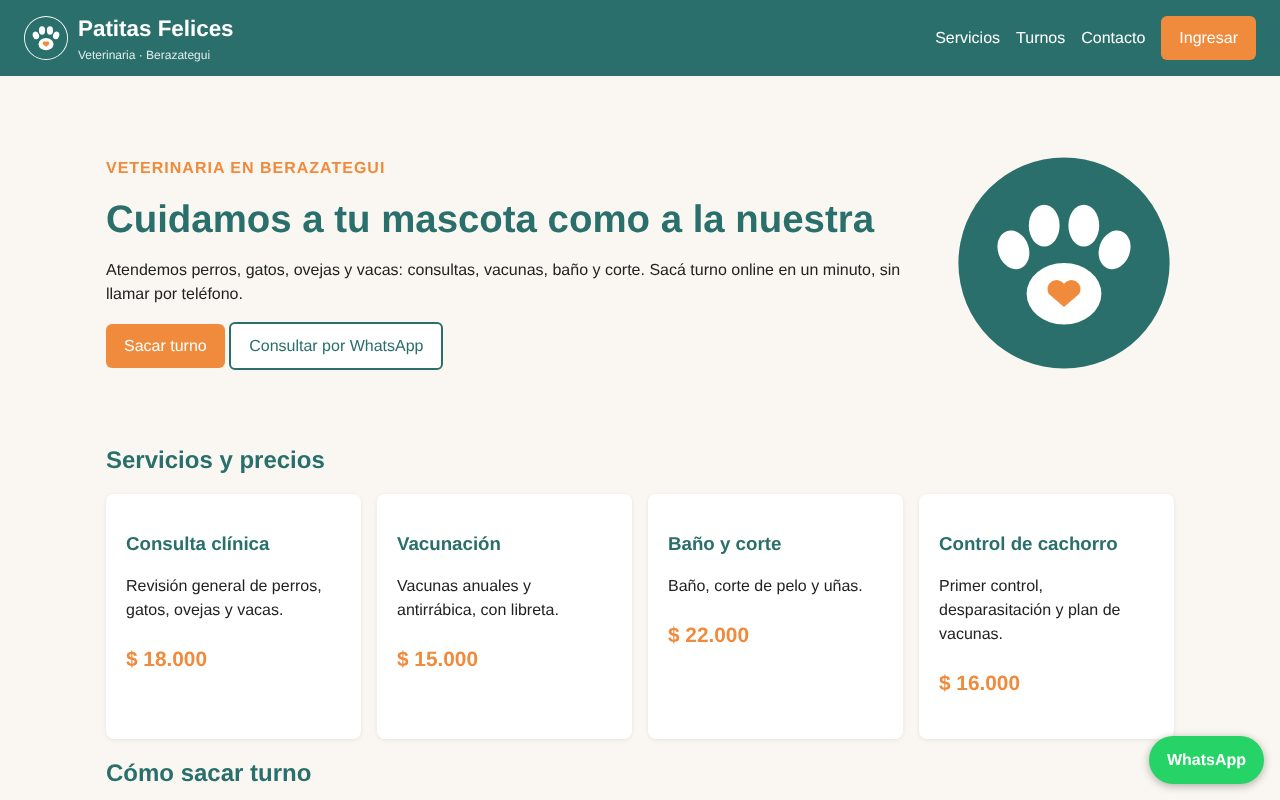
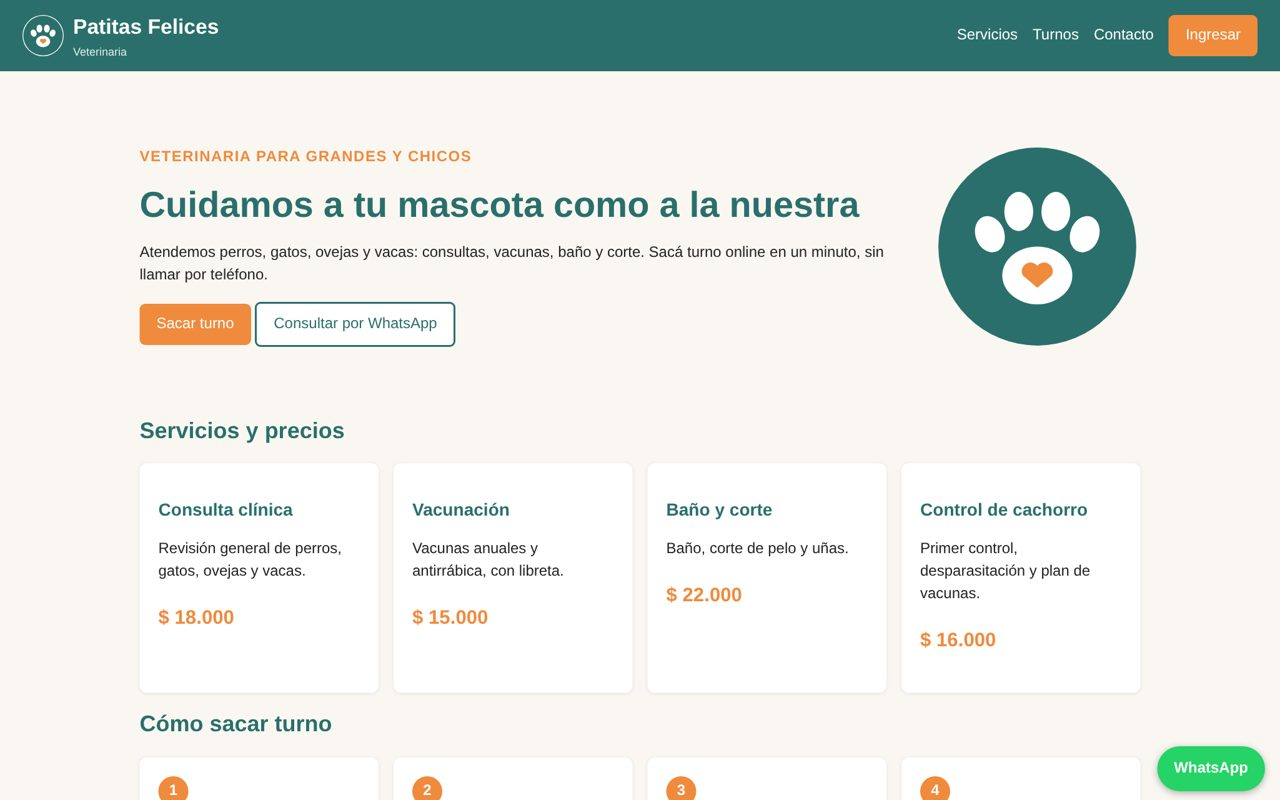
Textos sin la ciudad en los dos sitios; capturas de Patitas actualizadas en la web de Berasoft

diff --git a/04_Web_Consultora/nosotros.php b/04_Web_Consultora/nosotros.php
@@ -7,15 +7,15 @@ require 'inc/cabecera.php';
 <section class="portada">
   <div>
     <h1>Somos Berasoft</h1>
-    <p>Una <strong>Sociedad de Responsabilidad Limitada</strong> de Berazategui que desarrolla sitios web para comercios y profesionales de la zona sur.</p>
+    <p>Una <strong>Sociedad de Responsabilidad Limitada</strong> que desarrolla sitios web para comercios y profesionales.</p>
     <p>Elegimos ser S.R.L. porque somos una empresa chica: los socios responden solo con lo que aportaron y los trámites son más simples que en una S.A.</p>
   </div>
   <img src="img/logo.svg" alt="Logo de Berasoft" class="escudo" style="border:0;box-shadow:none;background:#fff;padding:24px">
 </section>
 
 <div class="grilla">
-  <article class="tarjeta"><h2>Misión</h2><p>Que cualquier negocio del barrio tenga una web útil, simple y a un precio justo.</p></article>
-  <article class="tarjeta"><h2>Visión</h2><p>Ser la empresa de desarrollo web de referencia en Berazategui y la zona sur.</p></article>
+  <article class="tarjeta"><h2>Misión</h2><p>Que cualquier negocio tenga una web útil, simple y a un precio justo.</p></article>
+  <article class="tarjeta"><h2>Visión</h2><p>Ser la empresa de desarrollo web de referencia para comercios y pymes.</p></article>
   <article class="tarjeta"><h2>Valores</h2><p>Claridad, compromiso con los plazos y atención cercana.</p></article>
 </div>
 
@@ -31,7 +31,7 @@ require 'inc/cabecera.php';
 <section class="destacado">
   <div>
     <h2>Dónde estamos</h2>
-    <p>Berazategui, Provincia de Buenos Aires.</p>
+    <p>Provincia de Buenos Aires, Argentina.</p>
     <p>Atendemos de lunes a viernes de 9 a 18 h. También vamos a tu negocio.</p>
   </div>
 </section>

diff --git a/05_Web_Proyecto/index.php b/05_Web_Proyecto/index.php
@@ -8,7 +8,7 @@ require 'inc/cabecera.php';
 ?>
 <section class="portada">
   <div>
-    <p class="etiqueta">Veterinaria en Berazategui</p>
+    <p class="etiqueta">Veterinaria para grandes y chicos</p>
     <h1>Cuidamos a tu mascota como a la nuestra</h1>
     <p>Atendemos perros, gatos, ovejas y vacas: consultas, vacunas, baño y corte. Sacá turno online en un minuto, sin llamar por teléfono.</p>
     <p>
@@ -44,6 +44,6 @@ require 'inc/cabecera.php';
 
 <section class="caso">
   <h2>Dónde estamos</h2>
-  <p>Av. Mitre 1234, Berazategui · Lunes a viernes de 9 a 18 h · Sábados de 9 a 13 h</p>
+  <p>Av. Mitre 1234 · Lunes a viernes de 9 a 18 h · Sábados de 9 a 13 h</p>
 </section>
 <?php require 'inc/pie.php'; ?>

diff --git a/04_Web_Consultora/index.php b/04_Web_Consultora/index.php
@@ -6,9 +6,9 @@ require 'inc/cabecera.php';
 ?>
 <section class="portada">
   <div>
-    <p class="etiqueta">Desarrollo web en Berazategui</p>
+    <p class="etiqueta">Desarrollo web para comercios</p>
     <h1>Hacemos la web de <span>tu negocio</span></h1>
-    <p>Sitios, turnos online y tiendas para comercios del barrio. Simples de usar, rápidos en el celular y con atención por WhatsApp.</p>
+    <p>Sitios, turnos online y tiendas para comercios y profesionales. Simples de usar, rápidos en el celular y con atención por WhatsApp.</p>
     <a class="boton" href="contacto.php">Pedir presupuesto</a>
     <a class="boton claro" href="trabajos.php">Ver trabajos</a>
   </div>

diff --git a/04_Web_Consultora/inc/cabecera.php b/04_Web_Consultora/inc/cabecera.php
@@ -9,7 +9,7 @@ $menu = ['index.php' => 'Inicio', 'servicios.php' => 'Servicios', 'trabajos.php'
   <meta charset="UTF-8">
   <meta name="viewport" content="width=device-width, initial-scale=1">
   <title><?= h($titulo) ?> · Berasoft</title>
-  <meta name="description" content="Berasoft S.R.L.: sitios web, turnos online y tiendas para comercios de Berazategui.">
+  <meta name="description" content="Berasoft S.R.L.: sitios web, turnos online y tiendas para comercios y profesionales.">
   <link rel="stylesheet" href="css/estilos.css">
   <link rel="icon" href="img/icono.svg">
 </head>

diff --git a/05_Web_Proyecto/inc/pie.php b/05_Web_Proyecto/inc/pie.php
@@ -1,6 +1,6 @@
 </main>
 <footer class="pie">
-  <p>Veterinaria Patitas Felices · Berazategui, Buenos Aires · Lunes a viernes de 9 a 18 h, sábados de 9 a 13 h</p>
+  <p>Veterinaria Patitas Felices · Lunes a viernes de 9 a 18 h, sábados de 9 a 13 h</p>
   <p><small>Sitio desarrollado por Berasoft S.R.L. · Proyecto final 7°2 · E.E.S.T. N°4 Berazategui · Juan Cruz Ceresani</small></p>
 </footer>
 <!-- Botón fijo de atención al cliente -->

diff --git a/04_Web_Consultora/trabajos.php b/04_Web_Consultora/trabajos.php
@@ -10,7 +10,7 @@ require 'inc/cabecera.php';
   <img src="img/patitas_turnos.jpg" alt="Pantalla de turnos de Patitas Felices">
   <div>
     <h2>Veterinaria Patitas Felices</h2>
-    <p><small>Berazategui · 2026</small></p>
+    <p><small>Veterinaria · 2026</small></p>
     <h3>El problema</h3>
     <p>Los turnos se daban por teléfono, se superponían horarios y la recepción no sabía qué animal venía.</p>
     <h3>Lo que hicimos</h3>

diff --git a/05_Web_Proyecto/inc/cabecera.php b/05_Web_Proyecto/inc/cabecera.php
@@ -15,7 +15,7 @@ $yo = usuario_actual();
 <header class="barra">
   <a class="marca" href="<?= $raiz ?>index.php">
     <img src="<?= $raiz ?>img/logo.svg" alt="">
-    <span>Patitas Felices <small>Veterinaria · Berazategui</small></span>
+    <span>Patitas Felices <small>Veterinaria</small></span>
   </a>
   <nav>
     <a href="<?= $raiz ?>index.php#servicios">Servicios</a>

diff --git a/04_Web_Consultora/inc/pie.php b/04_Web_Consultora/inc/pie.php
@@ -2,7 +2,7 @@
 <footer class="pie">
   <div>
     <img src="img/icono.svg" alt="" width="48">
-    <p><strong><?= EMPRESA ?></strong><br>Desarrollo de sitios web · Berazategui, Buenos Aires</p>
+    <p><strong><?= EMPRESA ?></strong><br>Desarrollo de sitios web</p>
   </div>
   <p>
     <a href="https://wa.me/<?= WHATSAPP ?>">WhatsApp</a> ·
